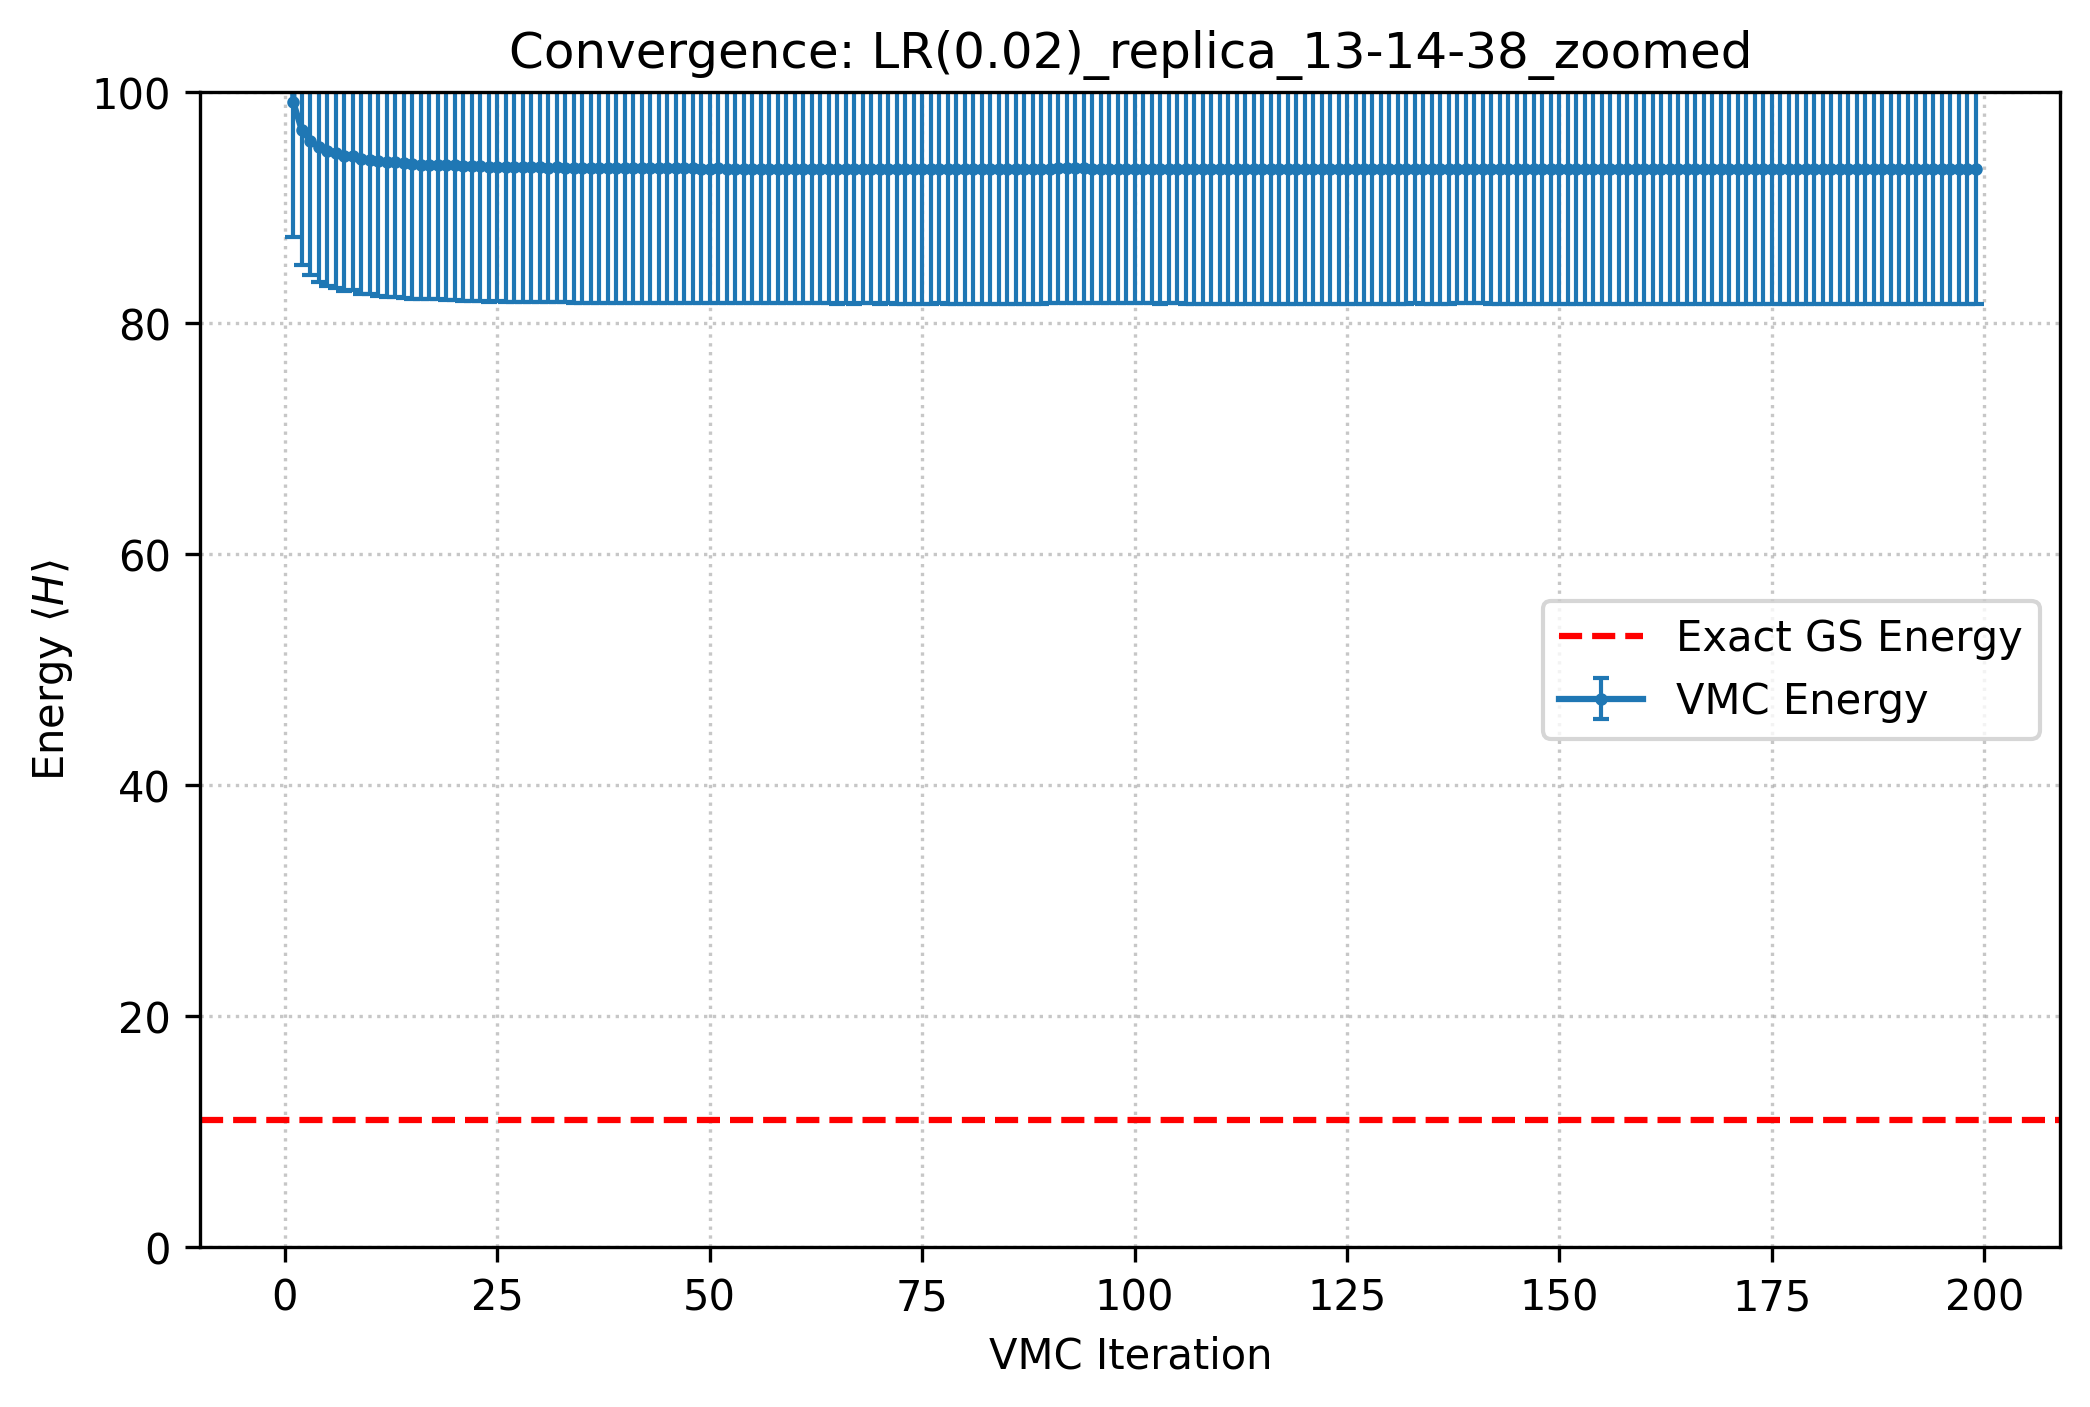
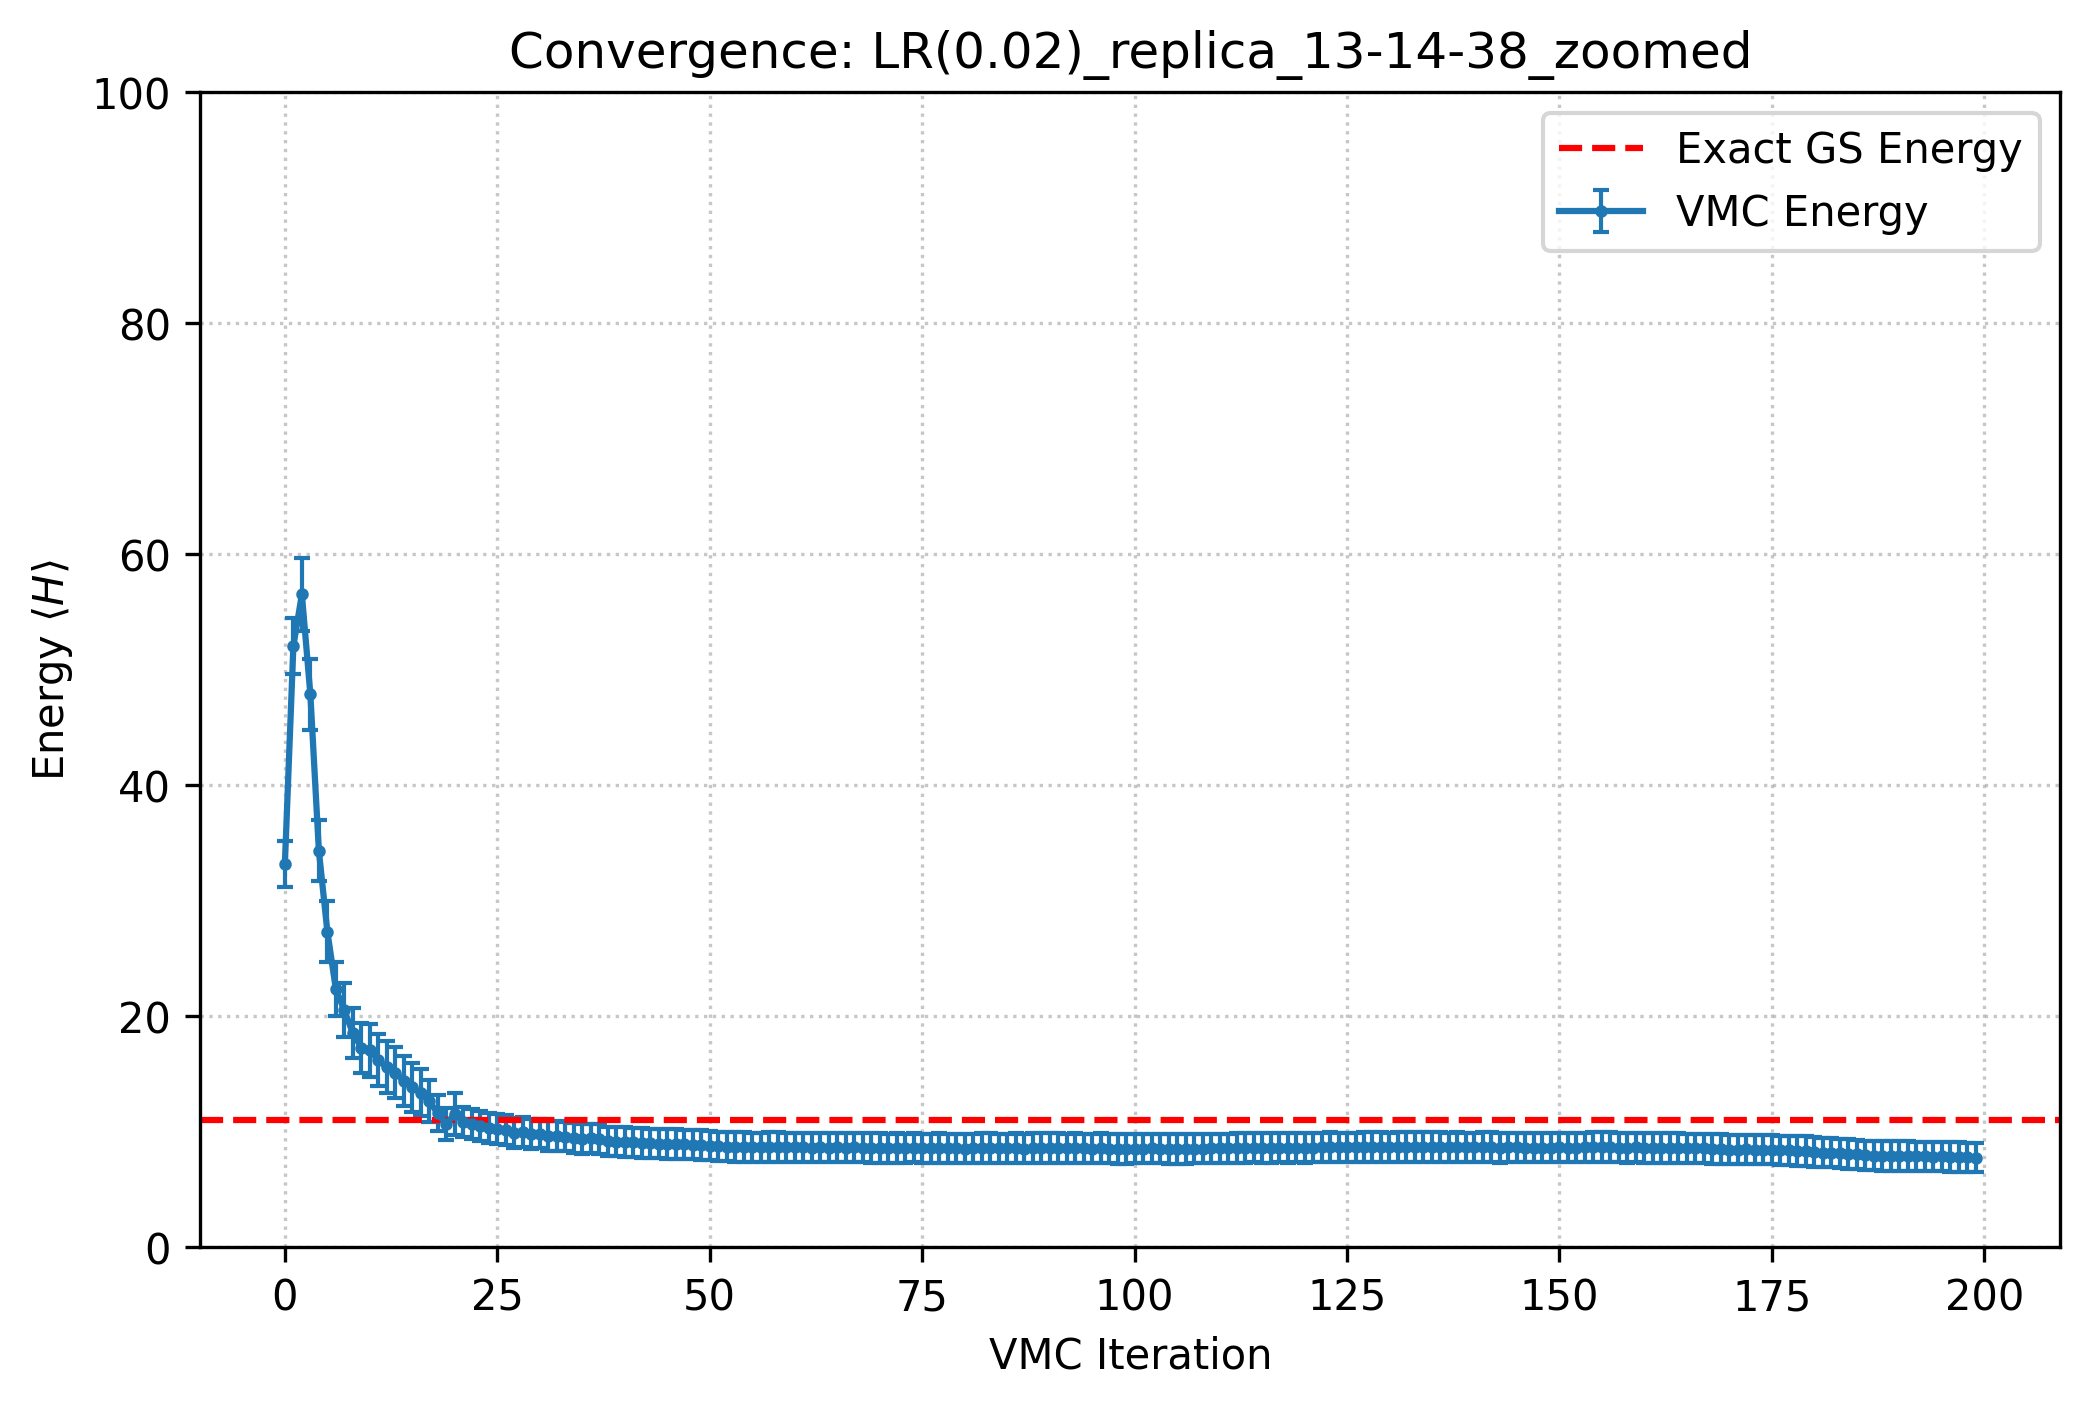
fix: instbility due to float n_samples

diff --git a/plots/plot_wf.py b/plots/plot_wf.py
@@ -9,56 +9,60 @@ from src.system import System
 from src.ansatz import FermiSets
 
 def main():
-    # 1. Re-initialize the exact architecture (N=1, dim=2)
-    system = System(N=5, dim=2, mass=1.0, potential= "qho_no_inter")
-    ansatz = FermiSets(dim=2, rngs=nnx.Rngs(42), N=5 , hidden_units= 16)
+    
+    system = System(N=2, dim=1, mass=1.0, potential="qho_no_inter")
+    ansatz = FermiSets(dim=1, rngs=nnx.Rngs(42), N=2, hidden_units=4)
     
     sampler = nk.sampler.MetropolisGaussian(system.hi, 
                                             sigma=0.1,
-                                            n_chains=16,
+                                            n_chains=1024,
                                             sweep_size=32) 
     
-    vstate = nk.vqs.MCState(sampler, ansatz, n_samples=10**4, n_discard_per_chain=100)
-    
-    # EVERY particle is sitting at (0,0) !!! 
-    fixed_config = jnp.zeros((5, 2)) # TODO read from actual cfg in future N , dim 
+    vstate = nk.vqs.MCState(sampler, ansatz, n_samples=100000, n_discard_per_chain=100)
 
-
-
-    mpack_path = "outputs/2026-03-26/19-00-52/optimization_results.mpack"
+    mpack_path = "outputs/2026-03-30/22-20-57/optimization_results.mpack"
     with open(mpack_path, "rb") as file:
         vstate.variables = flax.serialization.from_bytes(vstate.variables, file.read())
         
+
     x = np.linspace(-4, 4, 100)
-    y = np.linspace(-4, 4, 100)
-    X, Y = np.meshgrid(x, y)
+    X1, X2 = np.meshgrid(x, x)
+
+    x1_flat = X1.ravel()
+    x2_flat = X2.ravel()
     
-    grid_2d = np.stack([X.ravel(), Y.ravel()], axis=-1)#flattens 100x100 -> (10000, 2)
-    full_configs = jnp.tile(fixed_config, (grid_2d.shape[0], 1, 1)) # (10000, 5, 2) tensor of 10000 particle configurations
-    full_configs = full_configs.at[:, 0, :].set(grid_2d) # setting coordinates for particle 0
-    
+
+    # Shape must be (batch_size, N, dim) -> (10000, 2, 1)
+    grid_configs = np.stack([x1_flat, x2_flat], axis=-1) # Shape: (10000, 2)
+    full_configs = np.expand_dims(grid_configs, axis=-1) # Shape: (10000, 2, 1)
+
     log_psi = vstate.log_value(full_configs)
-    psi = jnp.exp(log_psi)
     
-    x_coords = grid_2d[:, 0] 
-    operated_psi = x_coords * psi
+
+    log_mag = jnp.real(log_psi)
+    phase = jnp.imag(log_psi)
+
+    log_mag_shifted = log_mag - jnp.max(log_mag)
     
-    #  the real part of the amplitude, reshaped back to the 100x100 grid
-    Z = jnp.real(operated_psi).reshape(100, 100)
+
+    Z = (jnp.exp(log_mag_shifted) * jnp.cos(phase)).reshape(100, 100)
     
+    # 6. Plotting
     plt.figure(figsize=(8, 6))
+
+    contour = plt.contourf(X1, X2, Z, levels=50, cmap="RdBu_r")
+    plt.colorbar(contour, label=r"Amplitude $\Psi(x_1, x_2)$")
+
+    plt.plot([-4, 4], [-4, 4], 'k--', alpha=0.5, label=r"Nodal line $x_1 = x_2$")
     
-    
-    contour = plt.contourf(X, Y, Z, levels=50, cmap="coolwarm", center=0)
-    plt.colorbar(contour, label=r"Amplitude of $\hat{x}\Psi(x,y)$")
-    
-    plt.title(r"Action of the Position Operator on the 2D Ground State")
-    plt.xlabel("x")
-    plt.ylabel("y")
+    plt.title("Antisymmetric 2-Particle 1D Ground State")
+    plt.xlabel(r"Particle 1 position ($x_1$)")
+    plt.ylabel(r"Particle 2 position ($x_2$)")
+    plt.legend()
     plt.grid(True, alpha=0.3)
     
-    plt.savefig("plots/operator_action_19-00-52_2particles.png", bbox_inches="tight")
-    plt.show()
+    plt.savefig("plots/antisymmetry_2particles_1d.png", bbox_inches="tight")
+
 
 if __name__ == "__main__":
     main()

diff --git a/main.py b/main.py
@@ -63,9 +63,9 @@ def main(cfg : DictConfig):
 
 
     sampler = nk.sampler.MetropolisGaussian(system.hi, 
-                                            sigma=0.1,
-                                            n_chains=16,
-                                            sweep_size=32) ##to make variables 
+                                            sigma=cfg.sampler.sigma,
+                                            n_chains=cfg.sampler.n_chains,
+                                            sweep_size=cfg.sampler.sweep_size) ##to make variables 
 
     trainer = Trainer(
      sampler=sampler,

diff --git a/src/train.py b/src/train.py
@@ -29,7 +29,7 @@ class Trainer():
     def __call__(self): 
         
         #currently expects flax object 
-        vstate = nk.vqs.MCState(self.sampler, self.model, n_samples= self.n_samples , n_discard_per_chain=100)
+        vstate = nk.vqs.MCState(self.sampler, self.model, n_samples= int(self.n_samples) , n_discard_per_chain=100)
         #vstate.init_parameters(normal(stddev=1.0))
         optimizer = nk.optimizer.Sgd(learning_rate= self.lr )
 

diff --git a/plots/plot_errs.py b/plots/plot_errs.py
@@ -46,7 +46,7 @@ def plot_err(log_path, plot_name, save_dir, exact_energy=None, max_iter=None, y_
     plt.close()
 
 if __name__ == "__main__": 
-    log_path = "outputs/2026-03-27/13-06-37/optimization_results.log"
+    log_path = "outputs/2026-03-30/22-20-57/optimization_results.log"
     plot_name = "LR(0.02)_replica_13-14-38_zoomed"
     save_dir = "plots"
     exact_GS = 11.0
